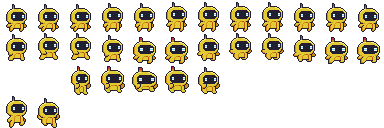
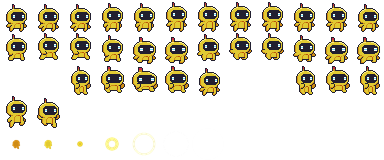
Completed player's taking damage, added player's death, upgraded ground collision and other minor changes

diff --git a/src/Gameplay/Player.cpp b/src/Gameplay/Player.cpp
@@ -21,8 +21,12 @@ void Player::update(float deltaMilliseconds)
 	bool isMovingLeftInput = sf::Keyboard::isKeyPressed(sf::Keyboard::A);
 	bool isMovingRightInput = sf::Keyboard::isKeyPressed(sf::Keyboard::D);
 	bool isJumpingInput = sf::Keyboard::isKeyPressed(sf::Keyboard::Space);
+	bool isDyingInput = sf::Keyboard::isKeyPressed(sf::Keyboard::K);
 
-	
+	if (isDyingInput)
+	{
+		m_isDead = true;
+	}
 	bool isMoving = isMovingLeftInput || isMovingRightInput;
 	if (isMoving)
 	{
@@ -98,30 +102,60 @@ void Player::update(float deltaMilliseconds)
 	//printf("Sprite top: %f \n", m_sprite.getGlobalBounds().top);
 	//printf("Sprite left: %f \n", m_sprite.getGlobalBounds().left);
 	//printf("Live Count: %d \n", m_liveCount);
+	//printf("Is dead: %d \n", m_isDead);
 	
 
 
 	// Update animation
 	m_animationTime += deltaMilliseconds;
-	bool m_deathAnimationPlayed = false;
-
-	// Inside the update function
-	if (m_damageTaken && !m_deathAnimationPlayed)
+	if (m_damageTaken)
 	{
-		//m_animationTime += deltaMilliseconds;
-		if (m_animationTime >= m_damageTakenFrameDuration)
+		// First moment of taking damage: Reset the current frame to 0 to start the animation from the beginning, and reduce the live count
+		if (!m_damageAnimationStarted)
+		{
+			m_currentFrame = 0;
+			m_damageAnimationStarted = true;
+			printf("Damage taken\n");
+			m_liveCount--;
+		}
+
+		if (m_animationTime >= m_frameDuration)
 		{
 			m_animationTime = 0.f;
-			//Do the animation just once
 			m_currentFrame = (m_currentFrame + 1) % m_totalFrames;
 			m_currentSpriteStartingX = m_tileWidth * m_currentFrame;
 			m_currentSpriteStartingY = m_tileHeight * 2.f;
 			if (m_currentFrame == m_totalFrames - 1)
 			{
-				m_deathAnimationPlayed = true;
+				m_damageTaken = false;
+				m_damageAnimationStarted = false;
+				if (m_liveCount <= 0)
+				{
+					m_isDead = true;
+				}
 			}
 		}
-		m_damageTaken = false;
+	}
+	if (m_isDead)
+	{
+		// Reset the current frame to 0 when damage is taken
+		if (!m_deathAnimationStarted)
+		{
+			m_currentFrame = 0;
+			m_deathAnimationStarted = true;
+		}
+
+		if (m_animationTime >= m_frameDuration)
+		{
+			m_animationTime = 0.f;
+			m_currentFrame = (m_currentFrame + 1) % m_deathAnimationTotalFrames;
+			m_currentSpriteStartingX = m_tileWidth * m_currentFrame;
+			m_currentSpriteStartingY = m_tileHeight * 4.f;
+			if (m_currentFrame == m_deathAnimationTotalFrames - 1)
+			{
+				m_position = { 1000.f, 1000.f };
+			}
+		}
 	}
 	else
 	if (m_speed.y != 0)
@@ -139,7 +173,7 @@ void Player::update(float deltaMilliseconds)
 	}
 	else if (m_direction.x != 0.0f)
 	{
-		m_animationTime += deltaMilliseconds;
+		//m_animationTime += deltaMilliseconds;
 		if (m_animationTime >= m_frameDuration)
 		{
 			m_animationTime = 0.f;

diff --git a/src/Core/CollisionManager.cpp b/src/Core/CollisionManager.cpp
@@ -23,7 +23,7 @@ void CollisionManager::checkGroundCollision(const ObjectLayer* groundsCollisionL
 			isGrounded = true;
 			objectToCheckCollision->setGravity(.0f);
 			objectToCheckCollision->setIsJumping(false);
-			objectToCheckCollision->setPosition({ objectToCheckCollision->getPosition().x, shape->getGlobalBounds().top - objectToCheckCollision->getBounds().height + 1.f });
+			objectToCheckCollision->setPosition({ objectToCheckCollision->getPosition().x, shape->getGlobalBounds().top - objectToCheckCollision->getBounds().height + 0.1f });
 			#if DEBUG_MODE
 						//printf("Ground Collision \n");
 			#endif
@@ -127,6 +127,7 @@ void CollisionManager::checkCollisionBetweenPlayerAndEnemy(Player* player, Enemy
 	if (player->getBounds().intersects(enemy->getBounds()))
 	{
 		player->setDamageTaken(true);
+		//player->setIsDead(true);
 		//printf("Player collided with enemy \n");
 	}
 }

diff --git a/include/Gameplay/Player.h b/include/Gameplay/Player.h
@@ -43,6 +43,7 @@ public:
 	void setGravity(float gravity) { m_currentGravity = gravity; }
 	void setLiveCount(int liveCount) { m_liveCount = liveCount; }
 	void setDamageTaken(bool damageTaken) { m_damageTaken = damageTaken; }
+	void setIsDead(bool isDead) { m_isDead = isDead; }
 	//void setSpeed(sf::Vector2f speed) { m_speed = speed; }
 	//void setDirection(sf::Vector2f direction) { m_direction = direction; }
 
@@ -67,6 +68,9 @@ protected:
 	//float m_frameDuration{ 50.f };
 	//int m_currentFrame{ 0 };
 	//int m_totalFrames{ 12 };
-	float m_damageTakenFrameDuration{ 100.f };
-	int m_totalDeathFrames{ 7 };
+	bool m_isDead{ false };
+	bool m_deathAnimationStarted{ false };
+	int m_deathAnimationTotalFrames{ 7 };
+
+	bool m_damageAnimationStarted{ false };
 };

diff --git a/src/Render/SFMLOrthogonalLayer.cpp b/src/Render/SFMLOrthogonalLayer.cpp
@@ -515,7 +515,7 @@ ObjectLayer::ObjectLayer(const tmx::Map& map, std::size_t layerID)
     const auto& objectGroup = dynamic_cast<const tmx::ObjectGroup&>(*layers[layerID]);
     for (const auto& object : objectGroup.getObjects())
     {
-        printf("Object: %s\n", object.getName().c_str());
+        //printf("Object: %s\n", object.getName().c_str());
         if (auto shape = createShape(object))
         {
             m_shapes.emplace_back(shape);

diff --git a/include/Gameplay/GameObject.h b/include/Gameplay/GameObject.h
@@ -16,7 +16,7 @@ class GameObject
 		virtual ~GameObject() = default; // IMPORTANT! If we don't define it as virtual, we will leak memory
 
 		const sf::Vector2f& getPosition() const { return m_position; }
-		sf::Vector2f& getPosition() { return m_position; }
+		//sf::Vector2f& getPosition() { return m_position; }
 		void setPosition(const sf::Vector2f& newPosition) { m_position = newPosition; }
 
 		virtual void update(float delta) = 0;

diff --git a/src/Gameplay/Entity.cpp b/src/Gameplay/Entity.cpp
@@ -6,6 +6,7 @@
 bool Entity::init(const EntityDescriptor& entityDescriptor)
 {
 	m_sprite.setTexture(*entityDescriptor.texture);
+	m_sprite.setTextureRect(sf::IntRect(0, 0, m_tileWidth, m_tileHeight));
 	m_sprite.setPosition(entityDescriptor.position);
 	m_tileWidth = entityDescriptor.tileWidth;
 	m_tileHeight = entityDescriptor.tileHeight;

diff --git a/src/Gameplay/Enemies/Enemy.cpp b/src/Gameplay/Enemies/Enemy.cpp
@@ -15,7 +15,7 @@
 void Enemy::update(float deltaMilliseconds)
 {
 	//m_sprite.setPosition(m_position);
-	m_direction.x = -1.0f;
+	m_direction.x = -0.0f;
 	m_sprite.setScale(-1.f, 1.f);
 	m_sprite.setOrigin(m_tileWidth, 0.f);
 	m_position.x += (m_direction.x * m_speed.x * deltaMilliseconds);
